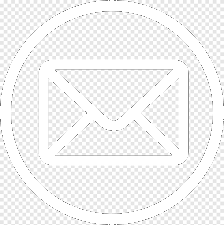
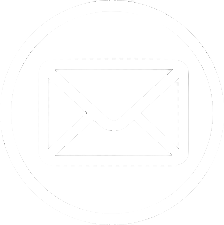
add contact section

diff --git a/src/pages/Contacts/InfoContacts/InfoContacts.jsx b/src/pages/Contacts/InfoContacts/InfoContacts.jsx
@@ -1,12 +1,19 @@
 import { BlockInfoContats } from "./BlockInfoContacts";
 import address from '../img/Address.png'
-import mail from '../img/mailss.png'
+import mail from '../img/mail.png'
 import phone from '../img/phone.png'
+import { useTranslation } from "react-i18next";
 
 
 
-export const InfoContacts = () => (
+export const InfoContacts = () => {
+    const {t} = useTranslation()
+    return(
     <>
-        <BlockInfoContats src={address} alt='address' primary='Адреса' secondary='м.Київ, вул. Соломії Крушельницької,15а' />
+        <BlockInfoContats src={address} alt='address' primary={t('address')} secondary={t('address text')} />
+        <BlockInfoContats src={mail} alt='mail' primary={t('mail')} secondary='bfmriya.ua@gmail.com' type='mailto:'/>
+        <BlockInfoContats src={phone} alt='phone' primary={t('call us')} secondary='+380973393661' type='tel:' />
+
+
     </>
-)
+)}

diff --git a/src/pages/Contacts/InfoContacts/BlockInfoContacts.jsx b/src/pages/Contacts/InfoContacts/BlockInfoContacts.jsx
@@ -1,8 +1,11 @@
-import Typography from '../../../shared/Typography/Typography'
+import { LinksTypography } from "../../../shared/Typography/LinksTypography"
 
-export const BlockInfoContats = () => (
-    <>
-        <img src="" alt=""/>
-        <Typography/>
-    </>
-)
+export const BlockInfoContats = ({ src, alt, primary, secondary, type }) => {
+    return (
+      <section className="wrapper-contact">
+        <img src={src} alt={alt} height='100px'/>
+        <LinksTypography primary={primary} secondary={secondary} type={type}/> 
+      </section>
+    );
+  };
+  

diff --git a/src/shared/Typography/LinksTypography.js b/src/shared/Typography/LinksTypography.js
@@ -1,0 +1,19 @@
+export const LinksTypography = ({primary, secondary, type}) => {
+    if(type) {
+        return(
+            <div className="contact-section">
+            {primary}
+            <a href={`${type + secondary}`}>
+                <div className="underline-contacts">{secondary}</div></a>
+            </div>
+        )
+    }
+    if(!type) {
+        return(
+            <>
+                <div className="contact-section">{primary}</div>
+                <div className="underline-contacts">{secondary}</div>
+            </>
+        )
+    }
+}

diff --git a/src/pages/Contacts/contacs.scss b/src/pages/Contacts/contacs.scss
@@ -1,0 +1,26 @@
+@import '../../shared/Typography/colors.scss';
+
+.contacs{
+    background-color: $secondary;
+    padding-top: 20vh;
+}
+
+.contact-section{
+    color: #fff;
+    font-weight: 700;
+    margin-bottom: 3vw;
+    font-size: 6vw;
+    color: $tertiary;
+}
+
+.wrapper-contact{
+    margin-bottom: 5vw;
+}
+
+.underline-contacts{
+    color: #fff;
+    font-weight: 500;
+    font-size: 5vw;
+    padding-bottom: 5vw;
+    text-decoration-line: underline;
+}

diff --git a/src/pages/Layout/Link/Link.scss b/src/pages/Layout/Link/Link.scss
@@ -5,12 +5,11 @@
     top: 0;
     width: 100%;
     display: flex;
-    justify-content: center;
-    flex-direction: row;
-    flex-wrap: nowrap;
-    align-items: center;
+    
     background-color: $secondary;
-    z-index: 3;
+    flex-direction: row;
+    z-index: 4;
+    align-items: center;
 
     .nav-item{
         text-decoration: none;

diff --git a/src/pages/Contacts/Contacts.jsx b/src/pages/Contacts/Contacts.jsx
@@ -1,9 +1,11 @@
 import GoogleMap from "./GoogleMap";
+import { InfoContacts } from "./InfoContacts/InfoContacts";
+import './contacs.scss'
 
 
 export const Contacts = () => (
-    <>
-        
+    <section className="contacs">
+        <InfoContacts/>
         <GoogleMap></GoogleMap>
-    </>
+    </section>
 )

diff --git a/src/pages/Home/components/Footer/Footer.scss b/src/pages/Home/components/Footer/Footer.scss
@@ -31,4 +31,5 @@ background-color: #0e3b65;
     font-size: 5vw;
     z-index: 2;
     padding-bottom: 5vw;
+    text-decoration-line: underline;
 }

diff --git a/src/shared/Typography/Typography.js b/src/shared/Typography/Typography.js
@@ -1,4 +1,4 @@
-import React from 'react'
+
 import './Typography.scss'
 
 export const Typography = ({variant, Tag, children}) => {
